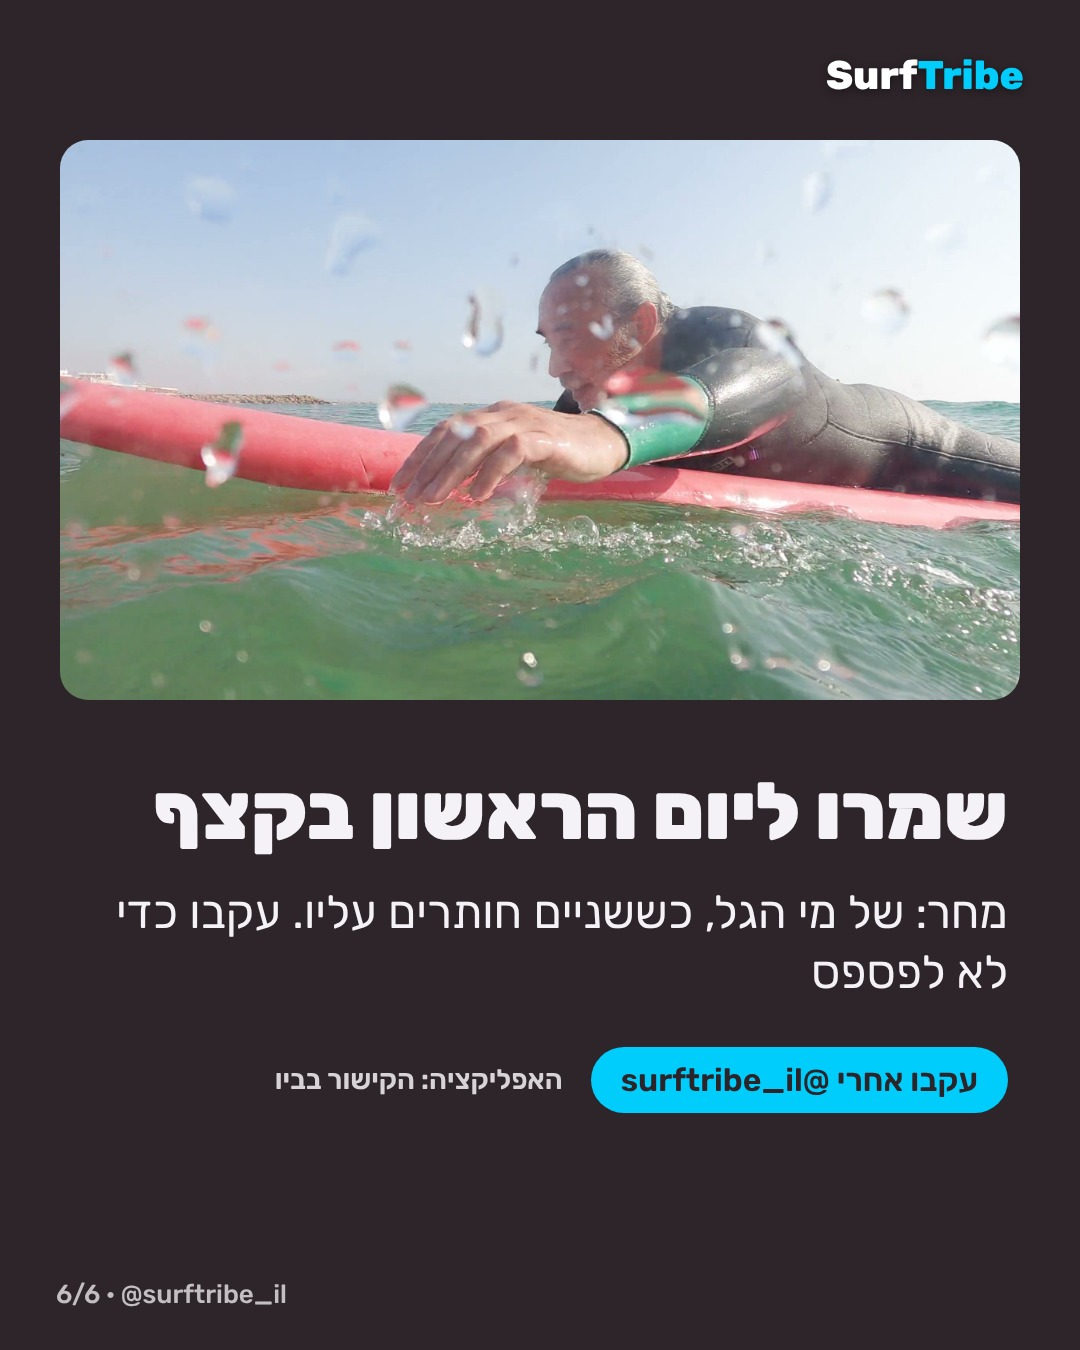
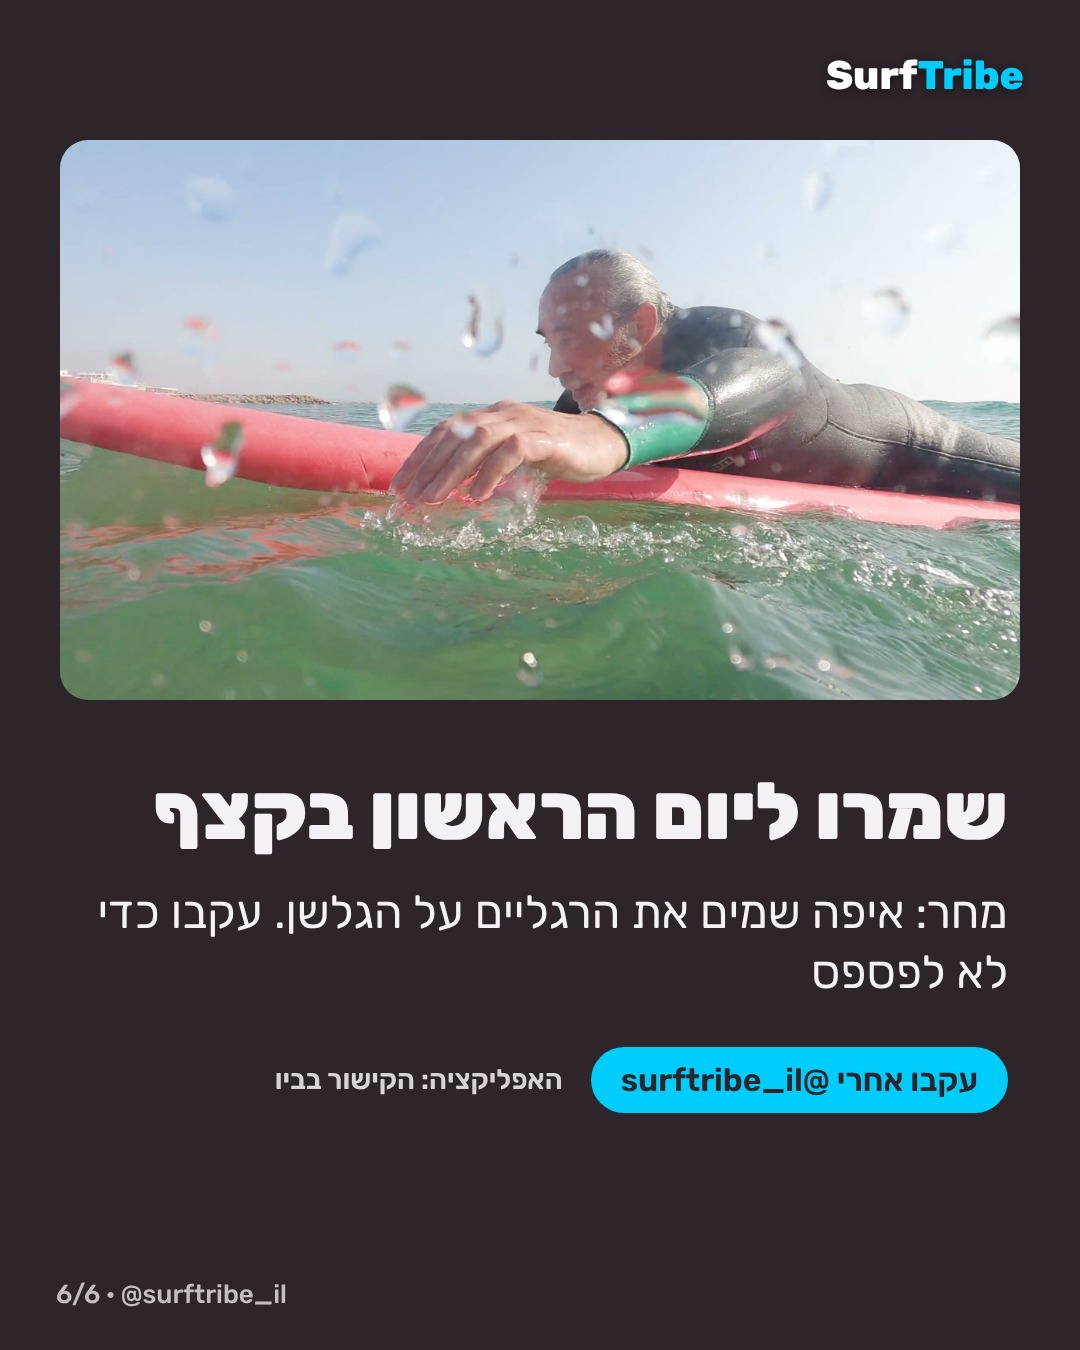
carousel 28.10: tomorrow teaser = feet on the board (plan change, Dima ok)

Changed region(s): [[0.0917, 0.6533, 0.825, 0.7156]]

diff --git a/docs/captions-28oct-carousel.md b/docs/captions-28oct-carousel.md
@@ -12,7 +12,7 @@
 4. הקצף עבר: שוכבים על הגלשן וחותרים החוצה
 
 שמרו את הפוסט ליום הראשון בקצף.
-עקבו אחרי @surftribe_il, מחר: של מי הגל, כששניים חותרים עליו.
+עקבו אחרי @surftribe_il, מחר: איפה שמים את הרגליים על הגלשן.
 צלמו גל אחד ו-SurfTribe ייתן לכם תיקון אחד ותרגיל. 5 ניתוחי וידאו בחינם, הקישור בביו.
 
 #גלישה #גלישהלמתחילים #בטיחותבים #surfisrael #surftribe_il
@@ -27,7 +27,7 @@ How to hold it:
 4. Foam gone: lie down and paddle out
 
 Save this for your first day in the foam.
-Follow @surftribe_world, tomorrow: whose wave is it when two of you paddle for it.
+Follow @surftribe_world, tomorrow: where your feet go on the board.
 Film one wave and SurfTribe gives you one fix and a drill. 5 free video analyses, link in bio.
 
 #surfing #learntosurf #beginnersurfer #surfsafety #surftips
